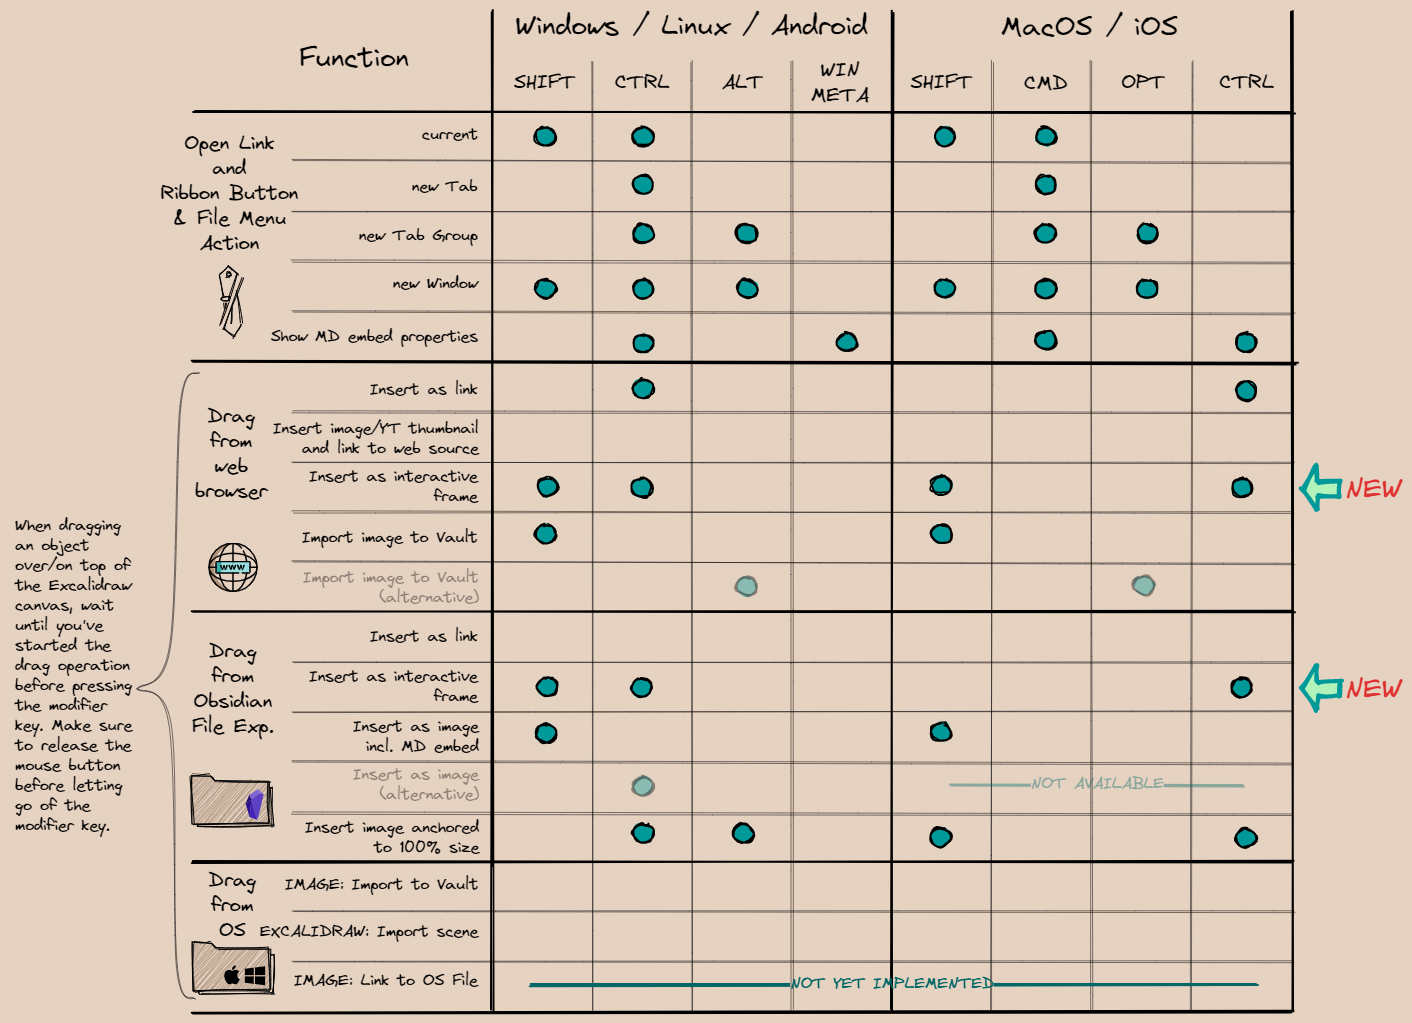
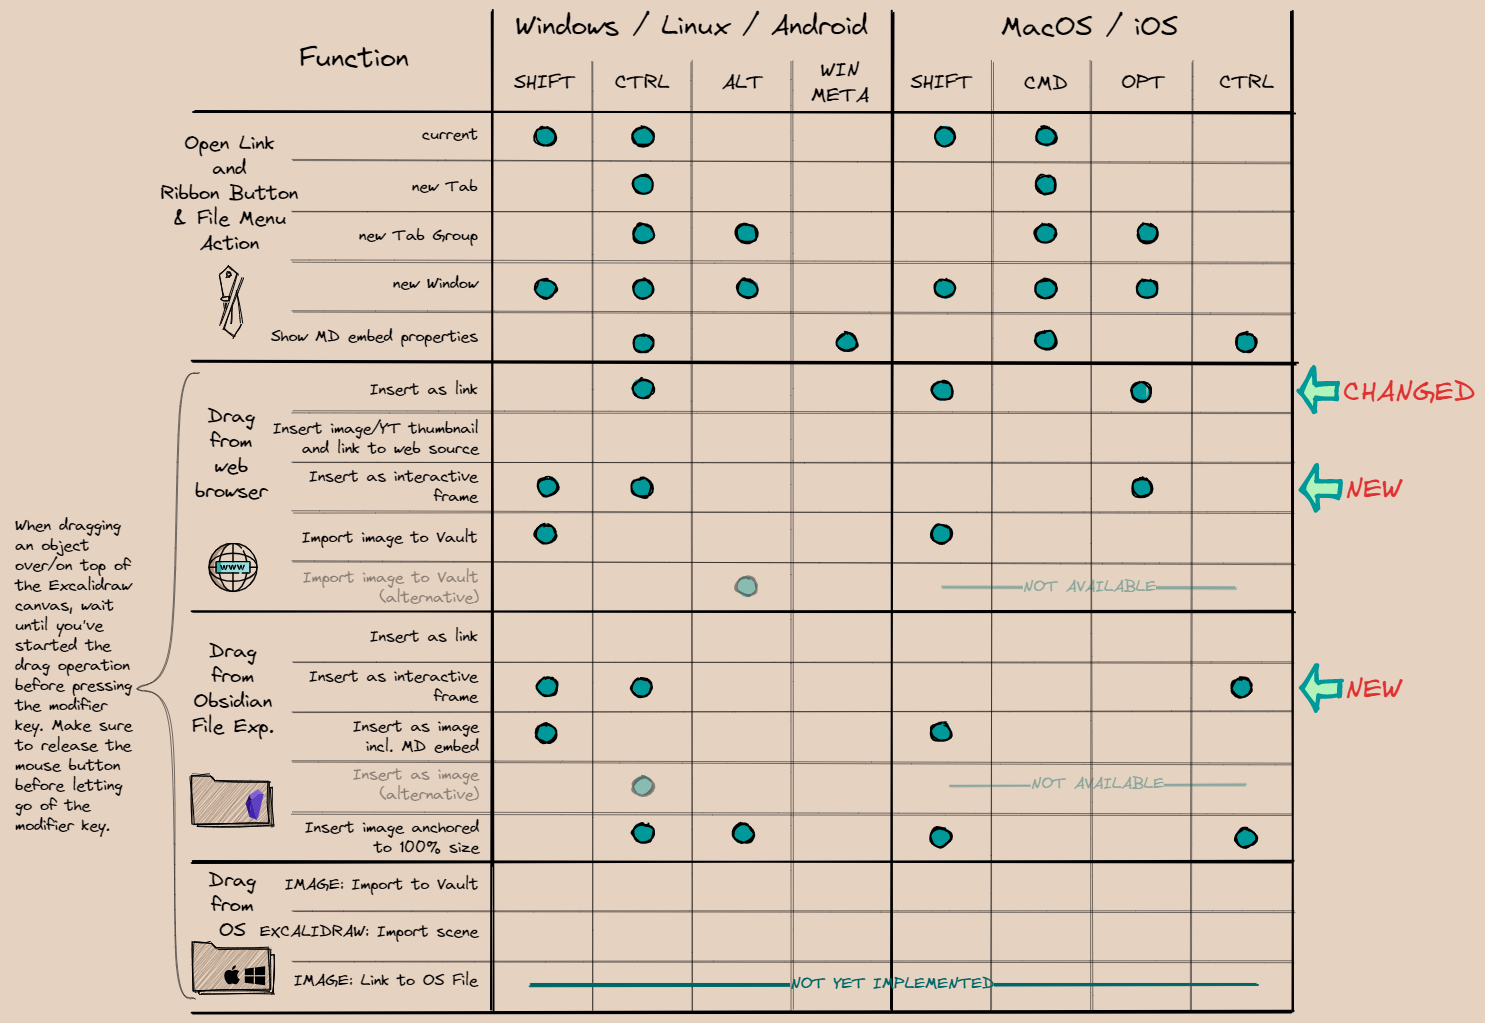
1.9.6

diff --git a/src/dialogs/Messages.ts b/src/dialogs/Messages.ts
@@ -17,6 +17,15 @@ I develop this plugin as a hobby, spending my free time doing this. If you find 
 
 <div class="ex-coffee-div"><a href="https://ko-fi.com/zsolt"><img src="https://cdn.ko-fi.com/cdn/kofi3.png?v=3" height=45></a></div>
 `,
+"1.9.6":`
+## Fixed
+- help shortcuts are really hard to see [#1176](https://github.com/zsviczian/obsidian-excalidraw-plugin/issues/1179)
+- link icons not visible on elements after 1.9.5 release (reported on Discord)
+- PDFs in iFrames will now respect the ${String.fromCharCode(96)}[[document.pdf#page=155]]${String.fromCharCode(96)} format
+- Keyboard shortcuts were not working properly on external drop. Check [updated keyboard map](https://raw.githubusercontent.com/zsviczian/obsidian-excalidraw-plugin/master/images/excalidraw-modifiers.png)
+
+<a href="https://raw.githubusercontent.com/zsviczian/obsidian-excalidraw-plugin/master/images/excalidraw-modifiers.png"><img src="https://raw.githubusercontent.com/zsviczian/obsidian-excalidraw-plugin/master/images/excalidraw-modifiers.png" width="100%" alt="Keyboard map"/></a>
+`,
 "1.9.5":`
 <div class="excalidraw-videoWrapper"><div>
 <iframe src="https://www.youtube.com/embed/ICpoyMv6KSs" title="YouTube video player" frameborder="0" allow="accelerometer; autoplay; clipboard-write; encrypted-media; gyroscope; picture-in-picture" allowfullscreen></iframe>

diff --git a/src/utils/ModifierkeyHelper.ts b/src/utils/ModifierkeyHelper.ts
@@ -31,11 +31,12 @@ export const linkClickModifierType = (ev: KeyEvent):PaneTarget => {
 }
 
 export const externalDragModifierType = (ev: KeyEvent):ExternalDragAction => {
-  if( isSHIFT(ev) && !isCTRL(ev) && !isALT(ev) &&  isMETA(ev)) return "iframe";
-  if(!isSHIFT(ev) &&  isCTRL(ev) && !isALT(ev) && !isMETA(ev)) return "insert-link";
-  if(!isSHIFT(ev) && !isCTRL(ev) && !isALT(ev) &&  isMETA(ev)) return "insert-link";
-  if( isSHIFT(ev) && !isCTRL(ev) && !isALT(ev) && !isMETA(ev)) return "image-import";
-  if(!isSHIFT(ev) && !isCTRL(ev) &&  isALT(ev) && !isMETA(ev)) return "image-import";
+  if(DEVICE.isWindows &&  isSHIFT(ev) &&  isCTRL(ev) && !isALT(ev) && !isMETA(ev)) return "iframe";
+  if(DEVICE.isMacOS   && !isSHIFT(ev) && !isCTRL(ev) &&  isALT(ev) && !isMETA(ev)) return "iframe";
+  if(DEVICE.isWindows && !isSHIFT(ev) &&  isCTRL(ev) && !isALT(ev) && !isMETA(ev)) return "insert-link";
+  if(DEVICE.isMacOS   &&  isSHIFT(ev) && !isCTRL(ev) &&  isALT(ev) && !isMETA(ev)) return "insert-link";
+  if(                     isSHIFT(ev) && !isCTRL(ev) && !isALT(ev) && !isMETA(ev)) return "image-import";
+  if(DEVICE.isWindows && !isSHIFT(ev) && !isCTRL(ev) &&  isALT(ev) && !isMETA(ev)) return "image-import";
   return "image-url";
 }
 

diff --git a/src/utils/Utils.ts b/src/utils/Utils.ts
@@ -454,7 +454,7 @@ export const getLinkParts = (fname: string, file?: TFile): LinkParts => {
     original: fname,
     path: file && parts[1] === "" ? file.path : parts[1],
     isBlockRef: parts[2] === "^",
-    ref: parts[3]?.replaceAll(REG_BLOCK_REF_CLEAN, ""),
+    ref: parts[3]?.match(/^page=\d*$/i) ? parts[3] : parts[3]?.replaceAll(REG_BLOCK_REF_CLEAN, ""),
     width: parts[4] ? parseInt(parts[4]) : undefined,
     height: parts[5] ? parseInt(parts[5]) : undefined,
     page: parseInt(parts[3]?.match(/page=(\d*)/)?.[1])

diff --git a/src/utils/DynamicStyling.ts b/src/utils/DynamicStyling.ts
@@ -27,8 +27,8 @@ export const setDynamicStyle = (
     view?.excalidrawAPI?.getAppState?.()?.theme === "light" ||
     view?.excalidrawData?.scene?.appState?.theme === "light";
 
-  const darker = "#202020";
-  const lighter = "#fbfbfb";
+  const darker = "#101010";
+  const lighter = "#f0f0f0";
   const step = 10;
   const mixRatio = 0.8;
 

diff --git a/styles.css b/styles.css
@@ -353,3 +353,7 @@ div.excalidraw-draginfo {
 .excalidraw__iframe-container input {
   background: initial;
 }
+
+.excalidraw .HelpDialog__key {
+  background-color: var(--color-gray-80) !important;
+}
